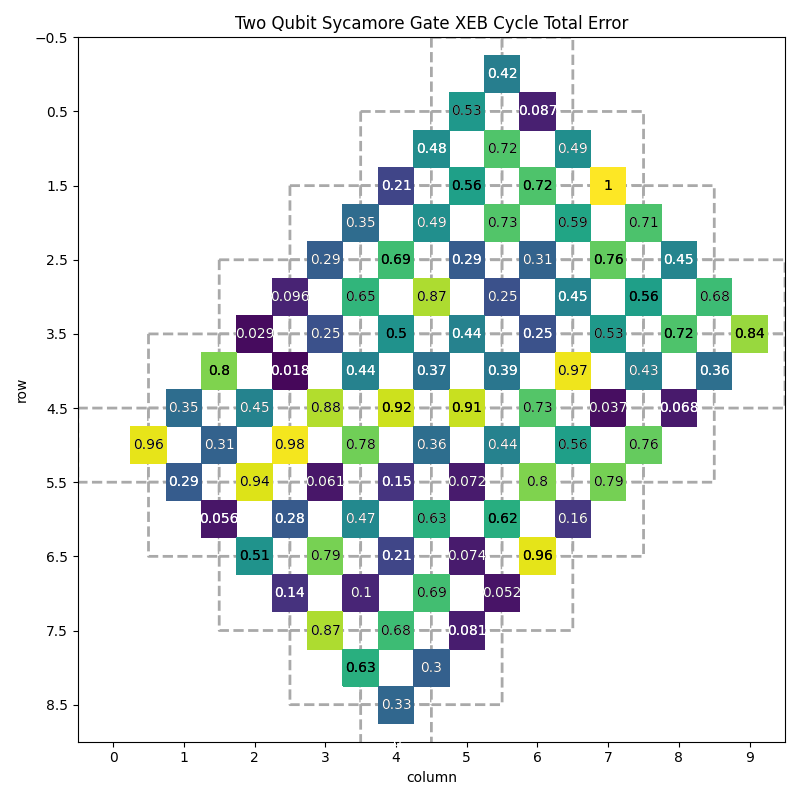
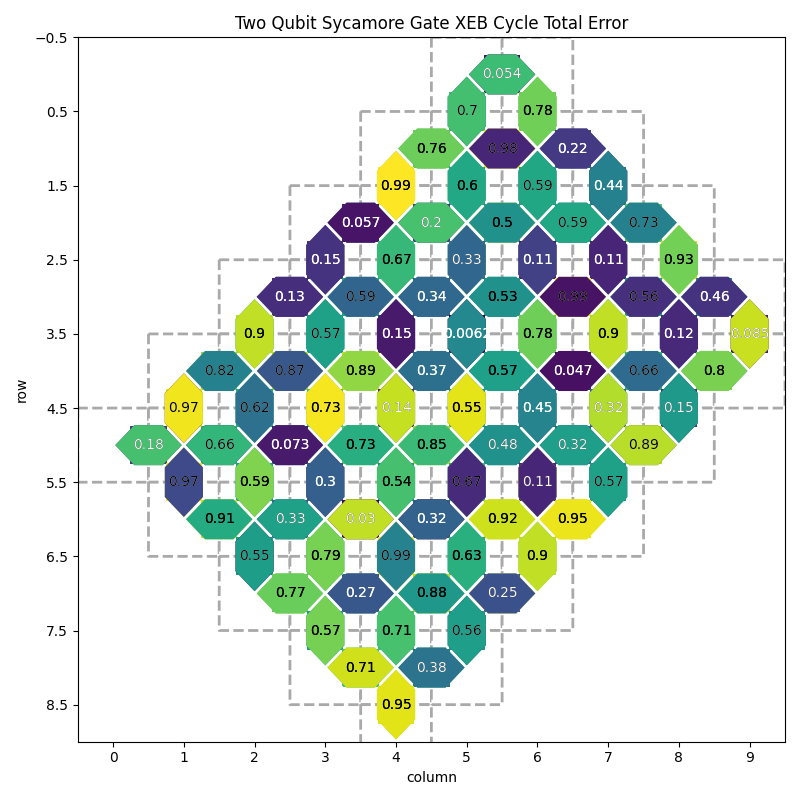
hexagons

Changed region(s): [[0.125, 0.0625, 0.9688, 0.9375]]

diff --git a/cirq/vis/heatmap.py b/cirq/vis/heatmap.py
@@ -16,19 +16,32 @@ See examples/heatmap_example.py for an example usage in
 an interactive session.
 """
 import abc
-from typing import Any, Dict, List, Mapping, Optional, SupportsFloat, Tuple, Union, TypeVar, Generic
+from typing import (
+    Any,
+    Dict,
+    List,
+    Mapping,
+    Optional,
+    SupportsFloat,
+    Tuple,
+    Union,
+    TypeVar,
+    Generic,
+    NamedTuple,
+)
 
-import seaborn as sns
+from matplotlib import collections as mcoll
 import numpy as np
 import matplotlib as mpl
 import matplotlib.pyplot as plt
 import pandas as pd
 from matplotlib import collections as mpl_collections
+from matplotlib.patches import Polygon
 from mpl_toolkits import axes_grid1
 
 from cirq.devices import grid_qubit
 
-GraphicalCoordinate = Tuple[float, float]
+Point = Tuple[float, float]
 
 TupleQubitCoord = Tuple[int, int]
 QubitCoordinate = Union[TupleQubitCoord, grid_qubit.GridQubit]
@@ -115,7 +128,7 @@ class HeatmapBase(Generic[T, K, M], abc.ABC):
         self.value_map = {target: (float(value), value) for target, value in value_map.items()}
         return self
 
-    def _to_coord(self, target: Union[GraphicalCoordinate, K]):
+    def _to_coord(self, target: Union[Point, K]):
         if isinstance(target, tuple) and (
             isinstance(target[0], float) or isinstance(target[1], float)
         ):
@@ -123,12 +136,12 @@ class HeatmapBase(Generic[T, K, M], abc.ABC):
         return self._target_to_coordinate(target)  # type: ignore
 
     @abc.abstractmethod
-    def _target_to_coordinate(self, target: K) -> GraphicalCoordinate:
+    def _target_to_coordinate(self, target: K) -> Point:
         pass
 
     def set_annotation_map(
         self: T,
-        annot_map: Union[Mapping[GraphicalCoordinate, str], Mapping[K, str]],
+        annot_map: Union[Mapping[Point, str], Mapping[K, str]],
         **text_options: str,
     ) -> T:
         """Sets the annotation text.
@@ -167,9 +180,7 @@ class HeatmapBase(Generic[T, K, M], abc.ABC):
         self.annot_map = {}
         return self
 
-    def set_url_map(
-        self: T, url_map: Union[Mapping[GraphicalCoordinate, str], Mapping[K, str]]
-    ) -> T:
+    def set_url_map(self: T, url_map: Union[Mapping[Point, str], Mapping[K, str]]) -> T:
         """Sets the URLs for each cell."""
 
         self.url_map = {self._to_coord(key): value for key, value in url_map.items()}
@@ -351,7 +362,11 @@ class TwoQubitInteractionHeatmap(
         return float(r1 + r2) / 2, float(c1 + c2) / 2
 
     def plot(
-        self, ax: Optional[plt.Axes] = None, **pcolor_options: Any
+        self,
+        ax: Optional[plt.Axes] = None,
+        coupler_margin: float = 0.03,
+        coupler_width: float = 0.6,
+        **pcolor_options: Any,
     ) -> Tuple[plt.Axes, mpl_collections.Collection, pd.DataFrame]:
         """Plots the heatmap on the given Axes.
         Args:
@@ -397,17 +412,17 @@ class TwoQubitInteractionHeatmap(
 
         def get_qubit_map(vm):
             # TODO: clean this up later
-            return {**{q0: 0.0 for q0, _ in vm.keys()}, **{q1: 0.0 for _, q1 in vm.keys()}}
+            return {q: 0.0 for qubits in self.value_map.keys() for q in qubits}
 
         hm = Heatmap(get_qubit_map(self.value_map))
         hm.set_colormap('binary')
         hm.unset_colorbar()
+        hm.unset_annotation()
         hm.plot(
             ax=ax,
             linewidths=2,
             edgecolor='darkgrey',
             linestyle='dashed',
-            # annot_kws={'alpha': 0.0},  # A hack: transparent texts in qubit cells.
         )
 
         # Plot the heatmap.
@@ -421,12 +436,23 @@ class TwoQubitInteractionHeatmap(
             urls=url_array,
             **pcolor_options,
         )
+
+        coupler_list = _extract_pair_data(self.value_map, coupler_margin, coupler_width)
+
+        # Make a blank heatmap of qubits. Pop out (vmin, vmax) to ensure it's blank.
+        vmin = pcolor_options.pop('vmin', None)
+        vmax = pcolor_options.pop('vmax', None)
+
+        # Make the heatmap for two-qubit metrics.
+        collection = mcoll.PolyCollection([c.polygon for c in coupler_list], cmap=self.colormap)
+        collection.set_clim(vmin, vmax)
+        collection.set_array(np.array([c.value[0] for c in coupler_list]))
+        ax.add_collection(collection)
+
         mesh.update_scalarmappable()
         ax.set(xlabel='column', ylabel='row')
         ax.set_xticks(np.arange(min_col - 0.5, max_col + 1.5))
         ax.set_yticks(np.arange(min_row - 0.5, max_row + 1.5))
-        # ax.set_xticks(np.arange(min_col, max_col + 1), minor='true')
-        # ax.set_yticks(np.arange(min_row, max_row + 1), minor='true')
         ax.grid(b=True, which='minor', linestyle='--')
         ax.set_xlim((min_col - 1, max_col + 0.5))
         ax.set_ylim((max_row + 0.5, min_row - 0.5))
@@ -442,3 +468,99 @@ class TwoQubitInteractionHeatmap(
             fig.show()
 
         return ax, None, value_table
+
+
+class Coupler(NamedTuple('Coupler', [('polygon', Polygon), ('center', Point), ('value', Any)])):
+    """A Coupler contains all data necessary to plot a qubit-pair coupling.
+
+    Note that all coordinates are relative and un-normalized, i.e., x is in
+    [0, max_col + 1 - min_col] and y is in [0, max_row + 1 - min_row]. It is
+    a translation from the data coordinates [min_col, max_col + 1] x
+    [min_row, max_row + 1] by (-min_col, -min_row). This is the coordinates
+    of the axes after a pcolor() call.
+
+    Attributes:
+        polygon: a polygon for the vertices of the coupler.
+        center: the center coordinates for drawing the annotation.
+        value: the value associated with the coupler.
+    """
+
+
+def _extract_pair_data(
+    pair_value_map: Mapping[QubitPair, float], coupler_margin: float, coupler_width: float
+) -> List[Coupler]:
+    """Extracts data from pair_value_map and returns them.
+
+    Args:
+        pair_value_map: the map of a pair of qubit names to a value.
+        coupler_margin: the margin between a coupler polygon and the center of
+            qubit squares, zero means 2 couplers of the same qubit touch each
+            other.
+        coupler_width: the full width of the coupler polygon. Setting it to 0 or
+            a negative number removes the polygon.
+
+    Returns:
+        A tuple of 3 containers:
+        - A set of qubit names needed for plotting the background qubit map.
+        - A list of Coupler objects for plotting the qubit-pair couplers.
+        - A tuple of (minimum column, minimum row, maximum column, maximum row).
+    """
+    qubits = {q for qubits in pair_value_map.keys() for q in qubits}
+
+    # A hack to make the qubit-pair values align with qubits when qubits don't
+    # start from row 0 or column 0. It should be better to do this with
+    # matplotlib's transformations, but a hack will do for now.
+    indices = [_get_qubit_row_col(q) for q in qubits]
+    min_row = min(row for row, _ in indices)
+    min_col = min(col for _, col in indices)
+    max_row = max(row for row, _ in indices)
+    max_col = max(col for _, col in indices)
+    extremes = (min_col, min_row, max_col, max_row)
+
+    def _offset(x: float, y: float) -> Tuple[float, float]:
+        return x, y  # x + 0.5 - min_col, y + 0.5 - min_row
+
+    coupler_list: List[Coupler] = []
+    cwidth = coupler_width / 2.0
+    setback = 0.5 - cwidth
+    for (q1, q2) in sorted(pair_value_map.keys()):
+        value = pair_value_map[(q1, q2)]
+        row1, col1 = map(float, _get_qubit_row_col(q1))
+        row2, col2 = map(float, _get_qubit_row_col(q2))
+
+        if abs(row1 - row2) + abs(col1 - col2) != 1:
+            raise ValueError(f"{q1}-{q2} is not supported because they are not nearest neighbors")
+
+        if coupler_width <= 0:
+            polygon: Polygon = []
+        elif row1 == row2:  # horizontal
+            col1, col2 = min(col1, col2), max(col1, col2)
+            col_center = (col1 + col2) / 2.0
+            polygon = [
+                (col1 + coupler_margin, row1),
+                (col_center - setback, row1 + cwidth - coupler_margin),
+                (col_center + setback, row1 + cwidth - coupler_margin),
+                (col2 - coupler_margin, row2),
+                (col_center + setback, row1 - cwidth + coupler_margin),
+                (col_center - setback, row1 - cwidth + coupler_margin),
+            ]
+        elif col1 == col2:  # vertical
+            row1, row2 = min(row1, row2), max(row1, row2)
+            row_center = (row1 + row2) / 2.0
+            polygon = [
+                (col1, row1 + coupler_margin),
+                (col1 + cwidth - coupler_margin, row_center - setback),
+                (col1 + cwidth - coupler_margin, row_center + setback),
+                (col2, row2 - coupler_margin),
+                (col1 - cwidth + coupler_margin, row_center + setback),
+                (col1 - cwidth + coupler_margin, row_center - setback),
+            ]
+        coupler_list.append(
+            Coupler(
+                polygon=[_offset(c, r) for c, r in polygon],
+                center=_offset((col1 + col2) / 2.0, (row1 + row2) / 2.0),
+                value=value,
+            )
+        )
+
+    return coupler_list

diff --git a/examples/heatmap_example.py b/examples/heatmap_example.py
@@ -40,9 +40,43 @@ def two_qubit_interaction_heatmap():
     Demonstrates how cirq.Heatmap can be used to generate a heatmap of the qubit fidelities.
     """
     # normally one would get these from cirq.google.engine
-    random_characterization_data = {
-        qubit_pair: np.random.random() for qubit_pair in _sycamore_edges()
-    }
+    s = np.random.RandomState(1234)
+    random_characterization_data = {qubit_pair: s.random() for qubit_pair in _sycamore_edges()}
+
+    # random_characterization_data = {
+    #     (cirq.GridQubit(3, 2), cirq.GridQubit(4, 2)): 0.004619111460557768,
+    #     (cirq.GridQubit(4, 1), cirq.GridQubit(4, 2)): 0.0076079162393482835,
+    #     (cirq.GridQubit(4, 1), cirq.GridQubit(5, 1)): 0.010323903068646778,
+    #     (cirq.GridQubit(4, 2), cirq.GridQubit(4, 3)): 0.00729037246947839,
+    #     (cirq.GridQubit(4, 2), cirq.GridQubit(5, 2)): 0.008226663382640803,
+    #     (cirq.GridQubit(4, 3), cirq.GridQubit(5, 3)): 0.01504682356081491,
+    #     (cirq.GridQubit(5, 0), cirq.GridQubit(5, 1)): 0.00673880216745637,
+    #     (cirq.GridQubit(5, 1), cirq.GridQubit(5, 2)): 0.01020380985719993,
+    #     (cirq.GridQubit(5, 1), cirq.GridQubit(6, 1)): 0.005713058677283056,
+    #     (cirq.GridQubit(5, 2), cirq.GridQubit(5, 3)): 0.006431698844451689,
+    #     (cirq.GridQubit(5, 2), cirq.GridQubit(6, 2)): 0.004676551878404933,
+    #     (cirq.GridQubit(5, 3), cirq.GridQubit(5, 4)): 0.009471810549265769,
+    #     (cirq.GridQubit(5, 3), cirq.GridQubit(6, 3)): 0.003834724159559072,
+    #     (cirq.GridQubit(5, 4), cirq.GridQubit(6, 4)): 0.010423354216218345,
+    #     (cirq.GridQubit(6, 1), cirq.GridQubit(6, 2)): 0.0062515002303844824,
+    #     (cirq.GridQubit(6, 2), cirq.GridQubit(6, 3)): 0.005419247075412775,
+    #     (cirq.GridQubit(6, 2), cirq.GridQubit(7, 2)): 0.02236774155039517,
+    #     (cirq.GridQubit(6, 3), cirq.GridQubit(6, 4)): 0.006116965562115412,
+    #     (cirq.GridQubit(6, 3), cirq.GridQubit(7, 3)): 0.005300336755683754,
+    #     (cirq.GridQubit(6, 4), cirq.GridQubit(6, 5)): 0.012849356290539266,
+    #     (cirq.GridQubit(6, 4), cirq.GridQubit(7, 4)): 0.007785990142364307,
+    #     (cirq.GridQubit(6, 5), cirq.GridQubit(7, 5)): 0.008790971346696541,
+    #     (cirq.GridQubit(7, 2), cirq.GridQubit(7, 3)): 0.004104719338404117,
+    #     (cirq.GridQubit(7, 3), cirq.GridQubit(7, 4)): 0.009236765681133435,
+    #     (cirq.GridQubit(7, 3), cirq.GridQubit(8, 3)): 0.024921853294157192,
+    #     (cirq.GridQubit(7, 4), cirq.GridQubit(7, 5)): 0.0059072812181635015,
+    #     (cirq.GridQubit(7, 4), cirq.GridQubit(8, 4)): 0.004990546867455203,
+    #     (cirq.GridQubit(7, 5), cirq.GridQubit(7, 6)): 0.007852170748540305,
+    #     (cirq.GridQubit(7, 5), cirq.GridQubit(8, 5)): 0.006424831182351348,
+    #     (cirq.GridQubit(8, 3), cirq.GridQubit(8, 4)): 0.005248674988741292,
+    #     (cirq.GridQubit(8, 4), cirq.GridQubit(8, 5)): 0.014301577907262525,
+    #     (cirq.GridQubit(8, 4), cirq.GridQubit(9, 4)): 0.0038720100369923904,
+    # }
     heatmap = cirq.TwoQubitInteractionHeatmap(
         value_map=random_characterization_data,
         title='Two Qubit Sycamore Gate XEB Cycle Total Error',
